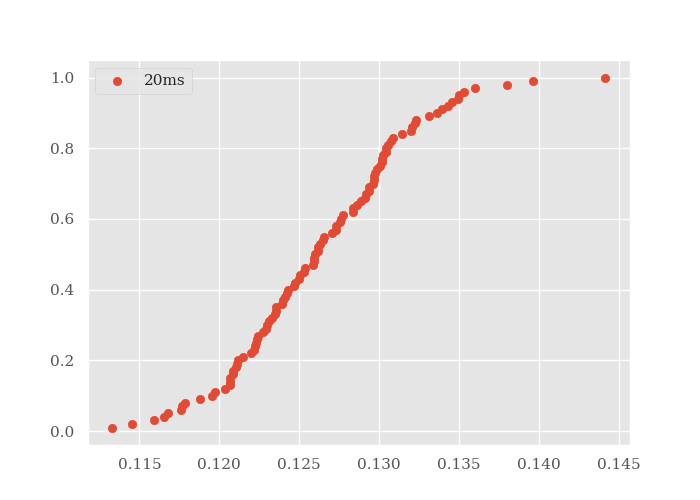
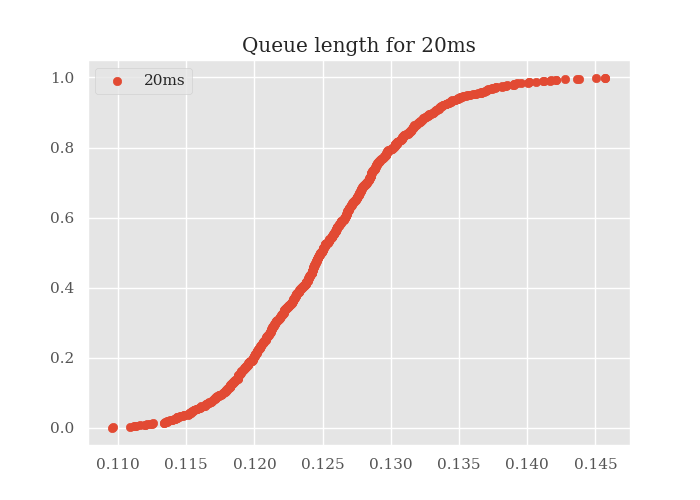
analisi exponential e lognormal

diff --git a/analisiDati.py b/analisiDati.py
@@ -958,9 +958,9 @@ def data_analysis(dataframe, attribute):
 
 
 def plot_ecdf_comparation(iteration=0, sample_size=1000, replace=False):
-    df = scalar_df_parse("C:\\Users\\Leonardo Poggiani\\Desktop\\dataset\\queueLength-20ms.csv")
-    df1 = scalar_df_parse("C:\\Users\\Leonardo Poggiani\\Desktop\\dataset\\queueLength-35ms.csv")
-    df2 = scalar_df_parse("C:\\Users\\Leonardo Poggiani\\Desktop\\dataset\\queueLength-50ms.csv")
+    df = scalar_df_parse("C:\\Users\\Leonardo Poggiani\\Desktop\\dataset\\exponential\\scalar-20ms.csv")
+    df1 = scalar_df_parse("C:\\Users\\Leonardo Poggiani\\Desktop\\dataset\\exponential\\scalar-35ms.csv")
+    df2 = scalar_df_parse("C:\\Users\\Leonardo Poggiani\\Desktop\\dataset\\exponential\\scalar-50ms.csv")
 
     sample = df[df.name == "queueLength"]
     x = np.sort(sample['value'].dropna())
@@ -968,6 +968,7 @@ def plot_ecdf_comparation(iteration=0, sample_size=1000, replace=False):
     y = np.arange(1, n + 1) / n
 
     plt.scatter(x=x, y=y, label="20ms")
+    plt.legend()
 
     sample1 = df1[df1.name == "queueLength"]
 
@@ -976,6 +977,7 @@ def plot_ecdf_comparation(iteration=0, sample_size=1000, replace=False):
     y = np.arange(1, n + 1) / n
 
     plt.scatter(x=x, y=y, label="35ms")
+    plt.legend()
 
     sample2 = df2[df2.name == "queueLength"]
 
@@ -984,13 +986,13 @@ def plot_ecdf_comparation(iteration=0, sample_size=1000, replace=False):
     y = np.arange(1, n + 1) / n
 
     plt.scatter(x=x, y=y, label="50ms")
-
     plt.legend()
+    plt.title("Comparison of queue length ecdfs")
     plt.show()
 
     stats = data_analysis(df, "queueLength")
     stats.to_csv('stats1.csv', index=False)
-    stats =  data_analysis(df1, "queueLength")
+    stats = data_analysis(df1, "queueLength")
     stats.to_csv('stats2.csv', index=False)
     stats = data_analysis(df2, "queueLength")
     stats.to_csv('stats3.csv', index=False)
@@ -1059,6 +1061,7 @@ def plot_lorenz_curve(data, name):
 
 
 def lorenz_curve_analysis():
+    '''
     df = scalar_df_parse("C:\\Users\\Leonardo Poggiani\\Desktop\\dataset\\responseTime-7.5ms.csv")
     df4 = scalar_df_parse("C:\\Users\\Leonardo Poggiani\\Desktop\\dataset\\responseTime-7.8ms.csv")
     df5 = scalar_df_parse("C:\\Users\\Leonardo Poggiani\\Desktop\\dataset\\responseTime-7.7ms.csv")
@@ -1069,15 +1072,22 @@ def lorenz_curve_analysis():
     df3 = scalar_df_parse("C:\\Users\\Leonardo Poggiani\\Desktop\\dataset\\responseTime-35ms.csv")
     df6 = scalar_df_parse("C:\\Users\\Leonardo Poggiani\\Desktop\\dataset\\responseTime-7.6ms.csv")
     df7 = scalar_df_parse("C:\\Users\\Leonardo Poggiani\\Desktop\\dataset\\responseTime-7.9ms.csv")
+    df1 = scalar_df_parse("C:\\Users\\Leonardo Poggiani\\Desktop\\dataset\\queueLength-20ms.csv")
+    df4 = scalar_df_parse("C:\\Users\\Leonardo Poggiani\\Desktop\\dataset\\queueLength-35ms.csv")
+    df5 = scalar_df_parse("C:\\Users\\Leonardo Poggiani\\Desktop\\dataset\\queueLength-50ms.csv")
+    df6 = scalar_df_parse("C:\\Users\\Leonardo Poggiani\\Desktop\\dataset\\queueLength-8ms.csv")
+    df7 = scalar_df_parse("C:\\Users\\Leonardo Poggiani\\Desktop\\dataset\\queueLength-10ms.csv")
+    '''
 
+    df5 = scalar_df_parse("C:\\Users\\Leonardo Poggiani\\Desktop\\dataset\\exponential\\scalar-20ms.csv")
+    df6 = scalar_df_parse("C:\\Users\\Leonardo Poggiani\\Desktop\\dataset\\exponential\\scalar-35ms.csv")
+    df7 = scalar_df_parse("C:\\Users\\Leonardo Poggiani\\Desktop\\dataset\\exponential\\scalar-50ms.csv")
     # plot_lorenz_curve(df, "7.5ms")
     # plot_lorenz_curve(df0, "8.5ms")
     # plot_lorenz_curve(df0, "7ms")
-    plot_lorenz_curve(df1, "8ms")
-    plot_lorenz_curve(df4, "7.8ms")
-    plot_lorenz_curve(df5, "7.7ms")
-    plot_lorenz_curve(df6, "7.6ms")
-    plot_lorenz_curve(df7, "7.9ms")
+    plot_lorenz_curve(df5, "20ms")
+    plot_lorenz_curve(df6, "35ms")
+    plot_lorenz_curve(df7, "50ms")
 
 
     # plot_lorenz_curve(df2, "20ms")
